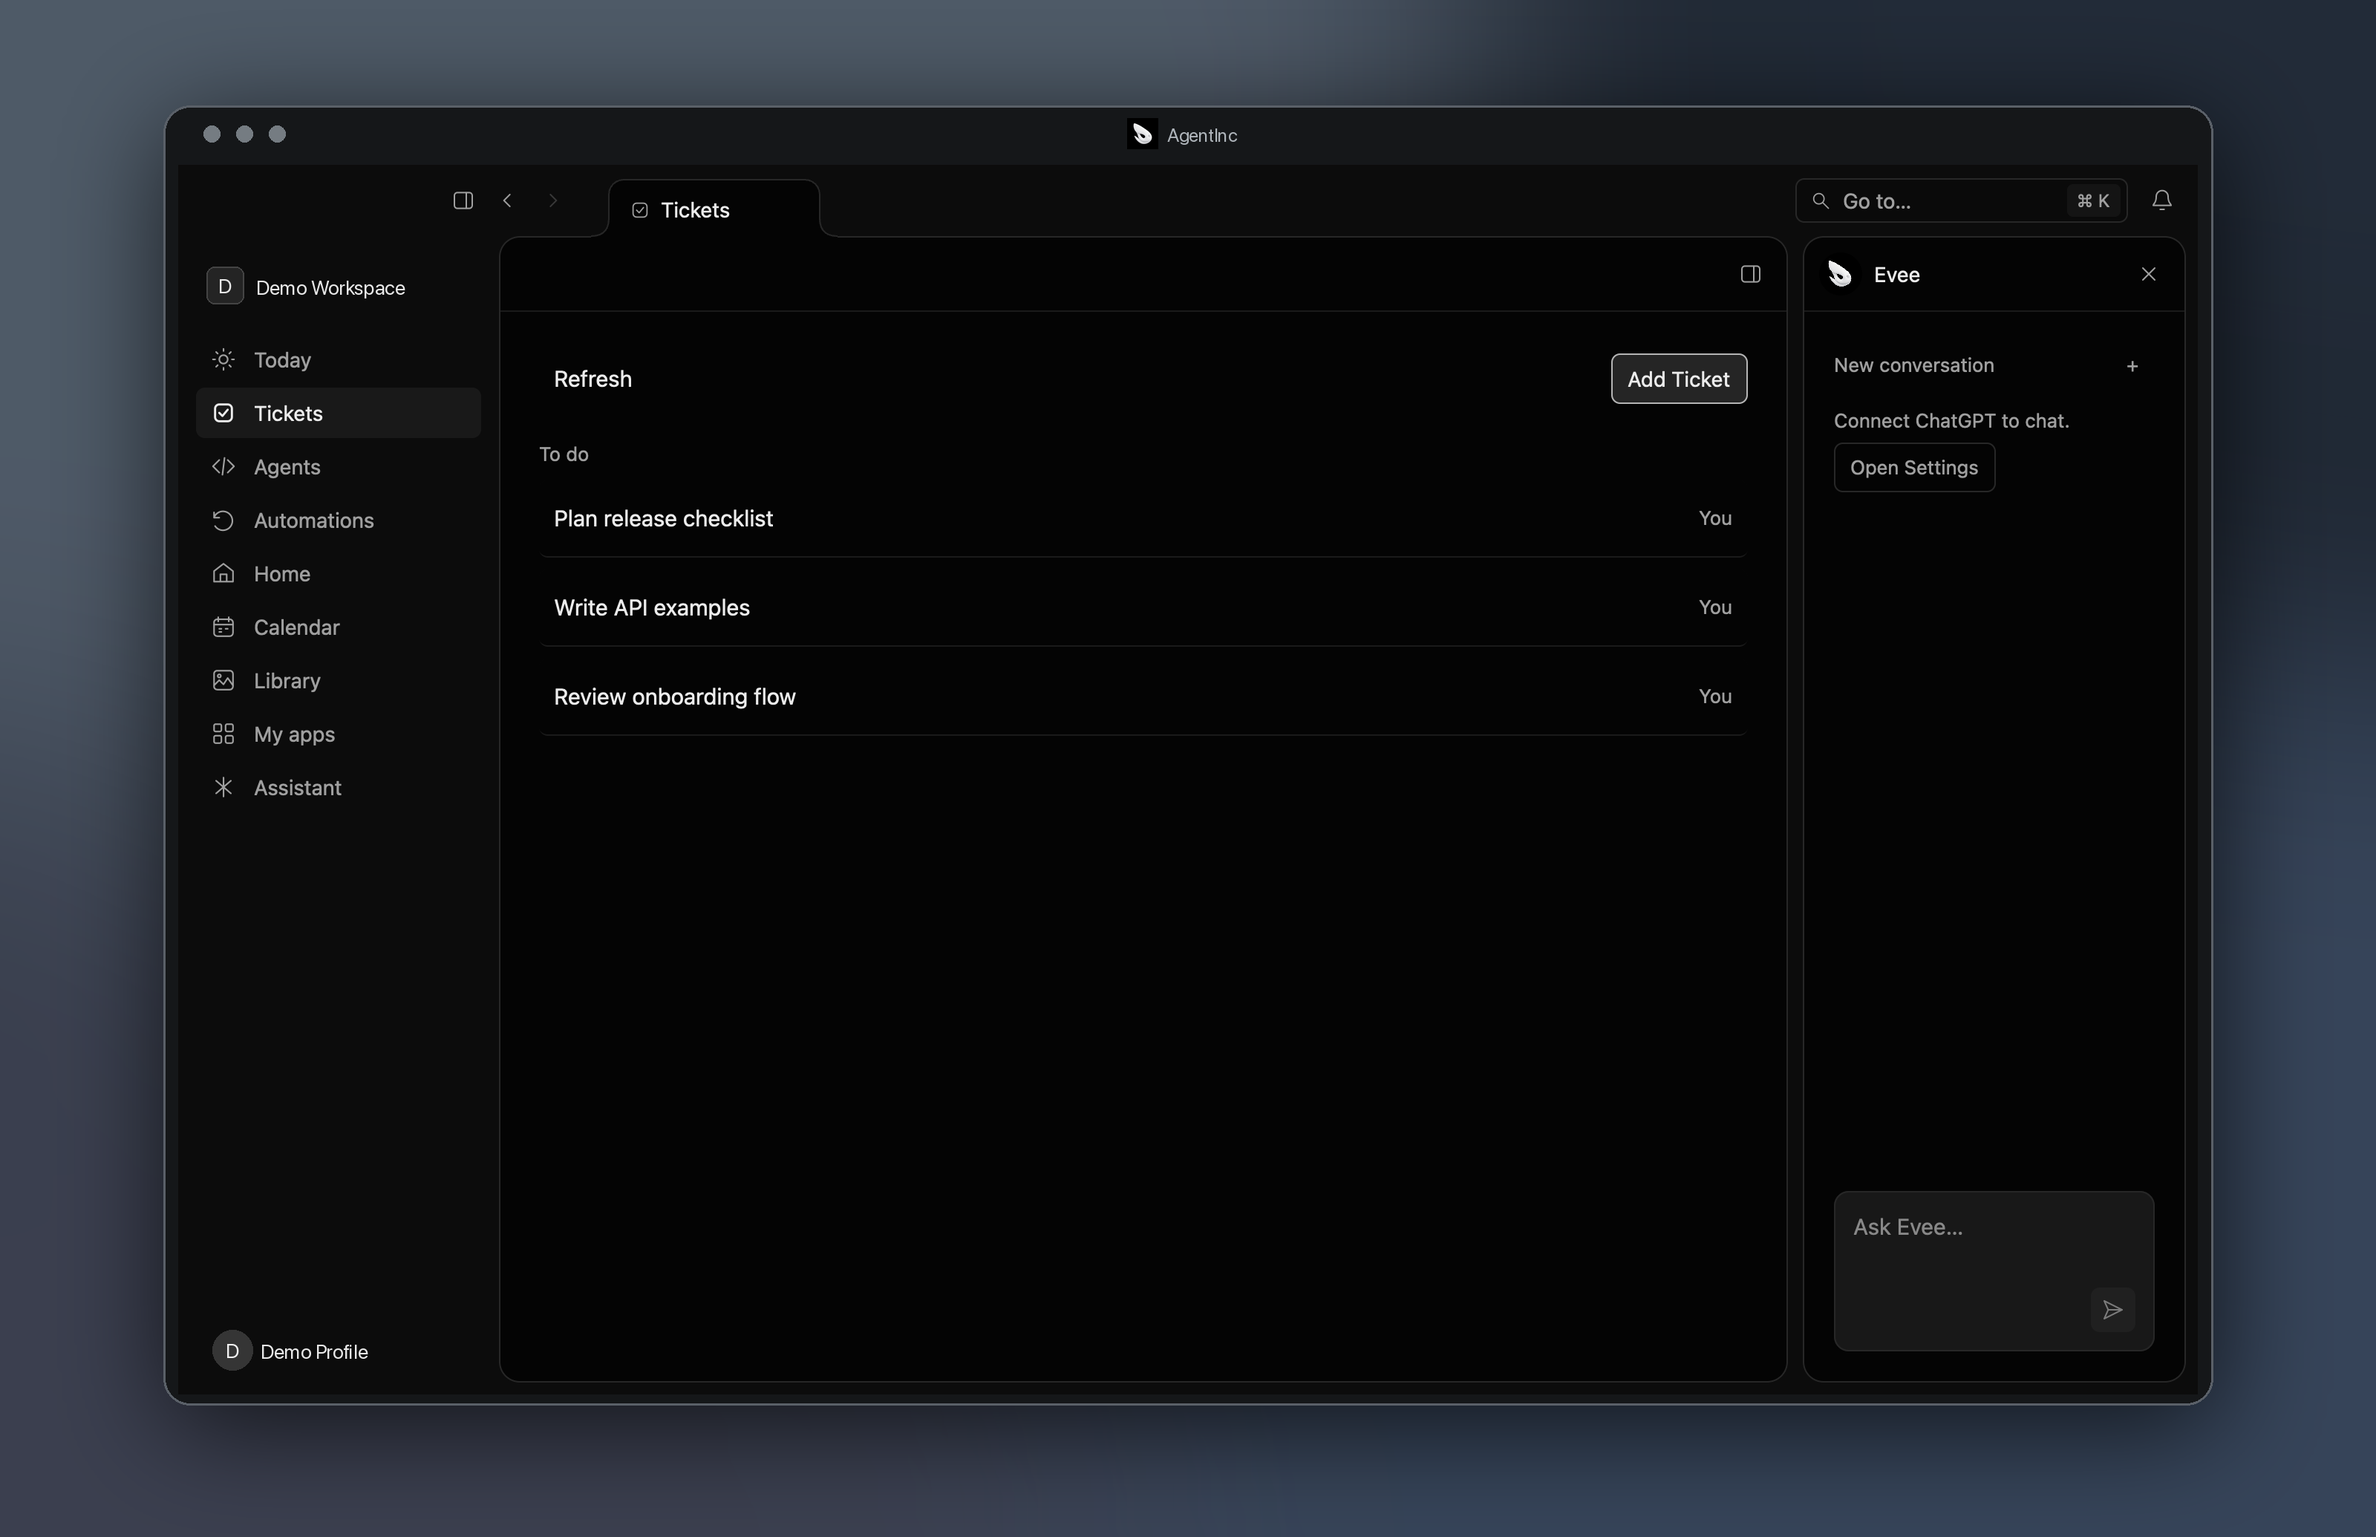
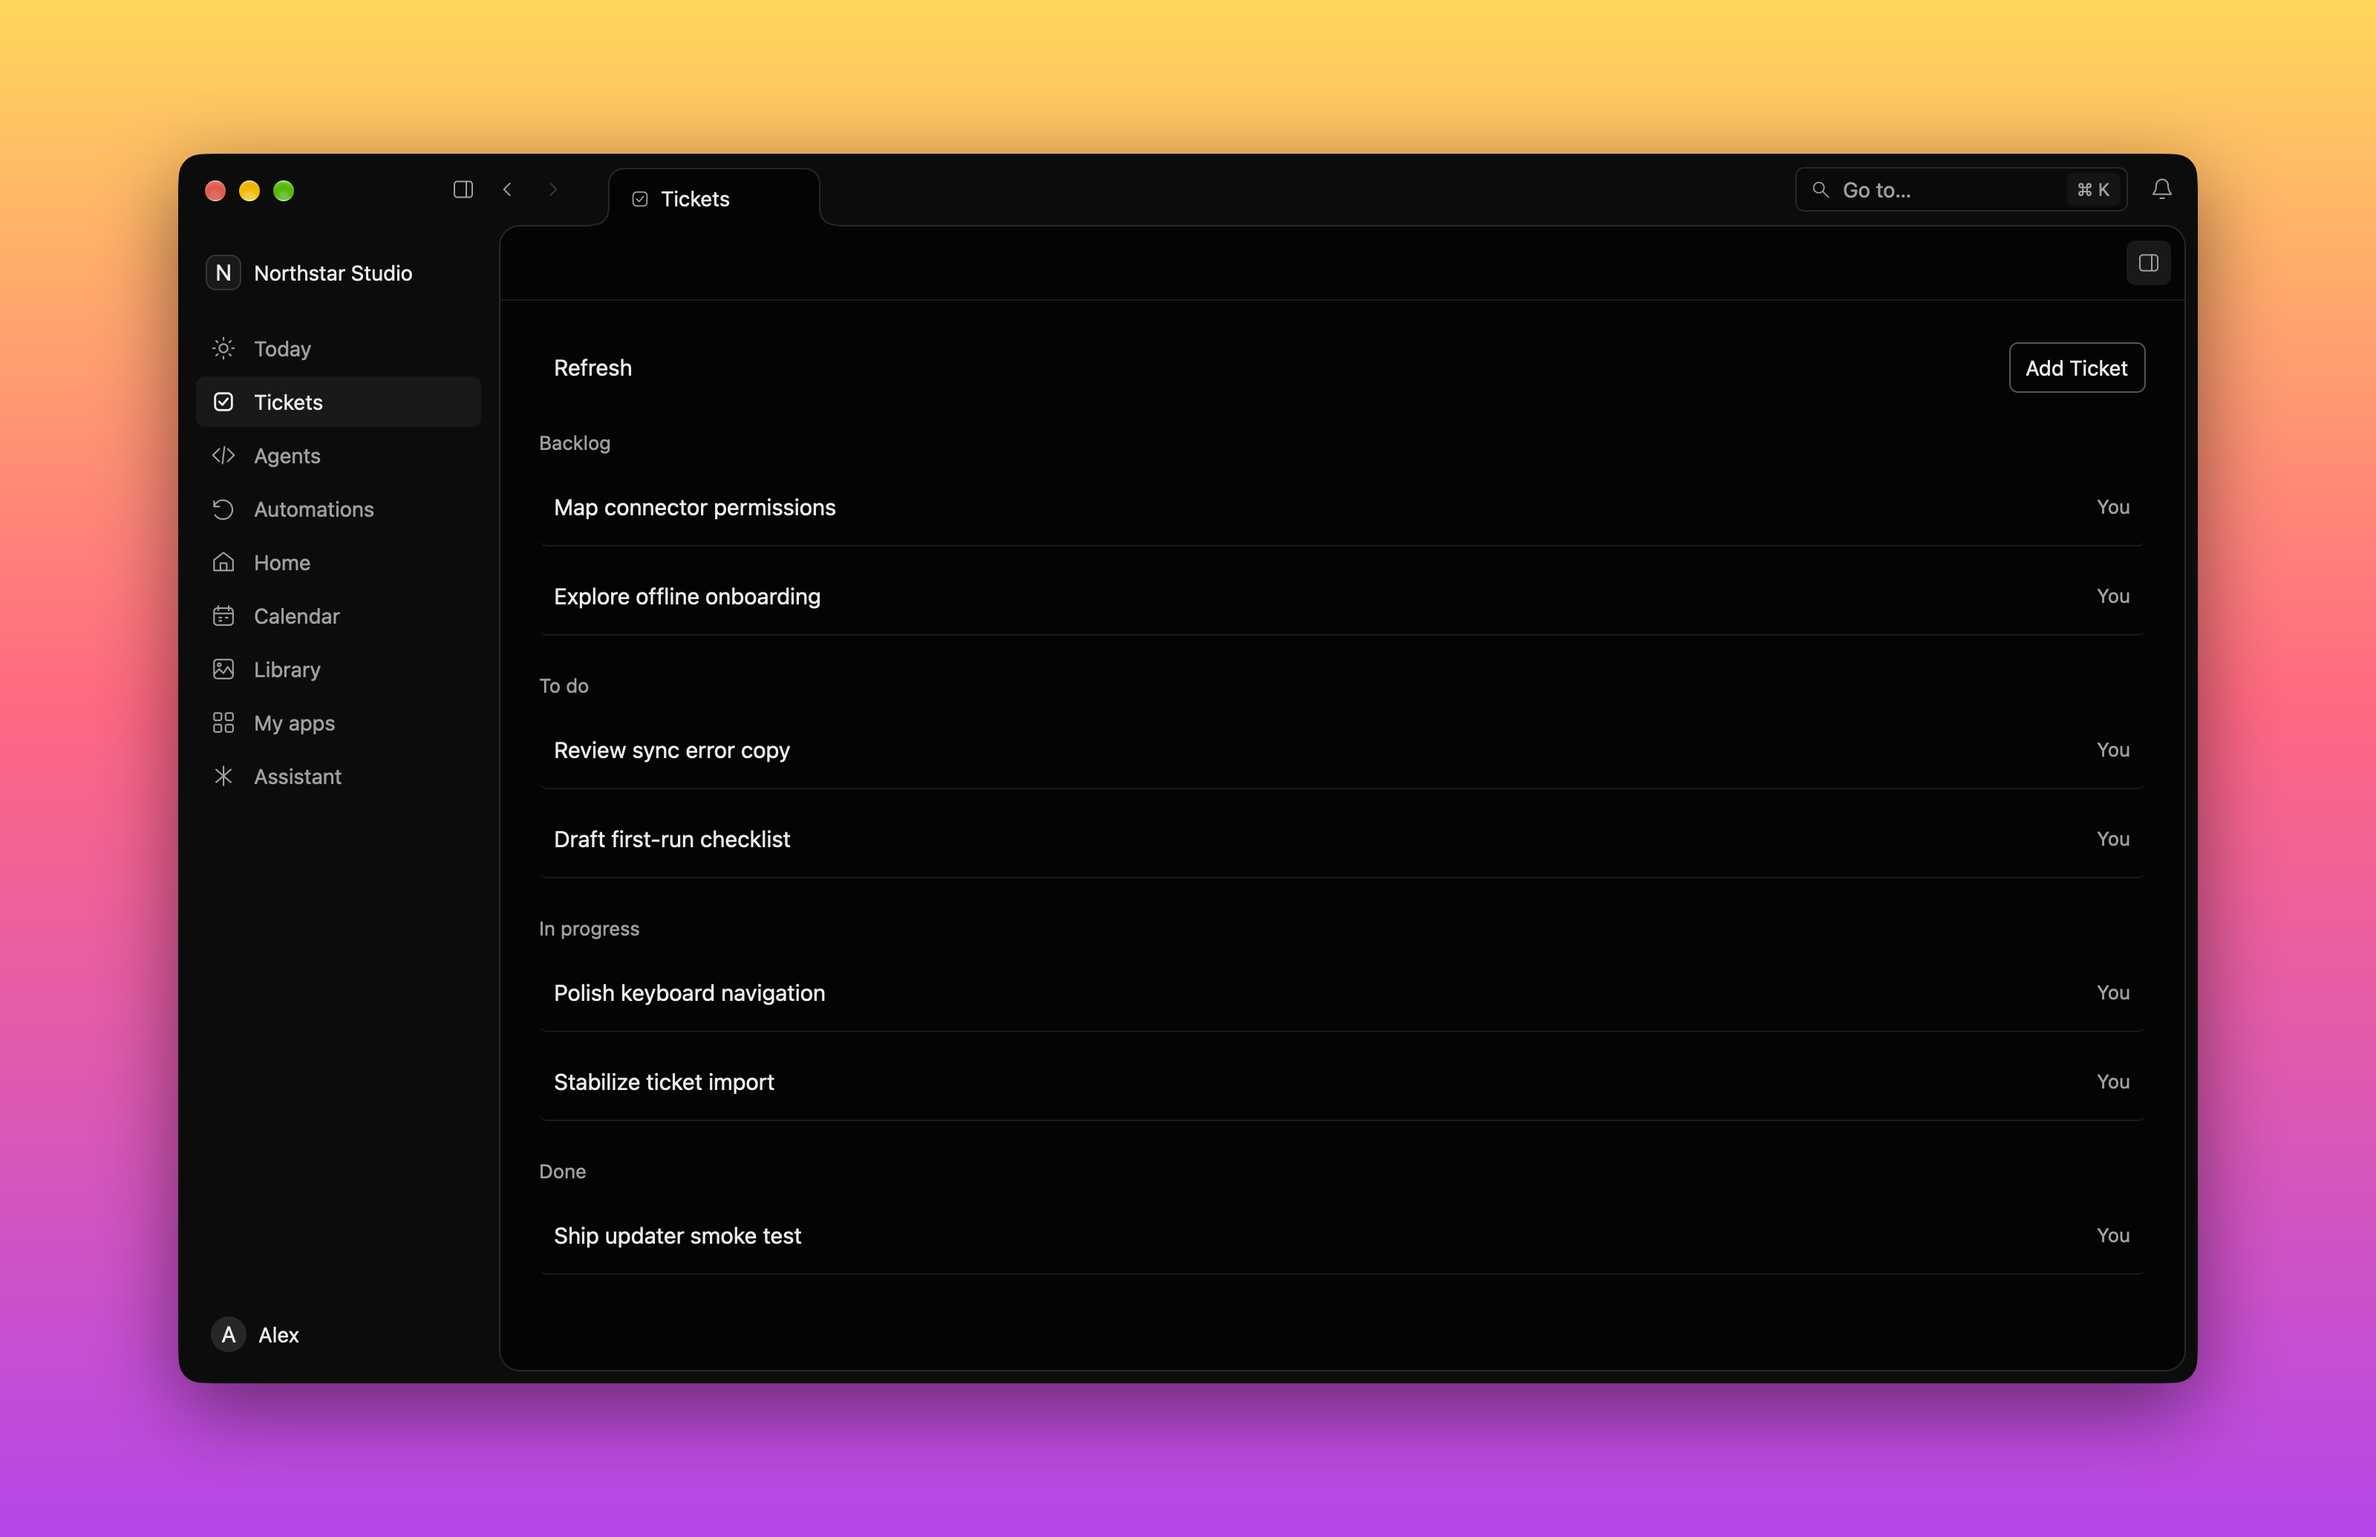
Capture and compose the single README hero

diff --git a/scripts/capture-readme-screenshots.py b/scripts/capture-readme-screenshots.py
@@ -1,14 +1,15 @@
 #!/usr/bin/env python3
-"""Seed an isolated AgentInc stack and capture one real macOS window.
+"""Seed an isolated AgentInc stack and capture one real app frame.
 
 Run after `cargo xtask dev` and `crates/ainc-mac/scripts/bundle.sh automation`.
-The capture includes native controls, corners and WindowServer shadow. No
-desktop input is synthesized and the app is closed immediately afterward.
+GPUI Pilot reads the running app's retina Metal frame. No desktop input is
+synthesized and the app is closed immediately afterward.
 """
 import argparse
 import json
 import os
 from pathlib import Path
+import shutil
 import subprocess
 import tempfile
 import time
@@ -18,6 +19,15 @@ APP = ROOT / "crates/ainc-mac/dist/AgentInc.app/Contents/MacOS/agentinc-os"
 PILOT = ROOT / "target/debug/gpui-pilot"
 DISCOVERY = ROOT / ".local/dev/api-url"
 TITLE = "AgentInc README Capture"
+TICKETS = (
+    ("Explore offline onboarding", "backlog"),
+    ("Map connector permissions", "backlog"),
+    ("Draft first-run checklist", "to_do"),
+    ("Review sync error copy", "to_do"),
+    ("Stabilize ticket import", "in_progress"),
+    ("Polish keyboard navigation", "in_progress"),
+    ("Ship updater smoke test", "done"),
+)
 
 
 def pilot(manifest, *args, typed=None):
@@ -103,6 +113,15 @@ def create_ticket(manifest, title, status):
     wait(manifest, "present", "tickets.create")
 
 
+def wait_for_manifest(app, manifest, log_path):
+    deadline = time.monotonic() + 20
+    while not manifest.is_file():
+        if app.poll() is not None or time.monotonic() >= deadline:
+            raise RuntimeError(log_path.read_text())
+        time.sleep(0.05)  # Wait only for process startup; UI uses Pilot gates.
+    pilot(manifest, "hello")
+
+
 def main():
     parser = argparse.ArgumentParser(description=__doc__)
     parser.add_argument("output", type=Path, help="raw PNG path under ignored .local/")
@@ -127,38 +146,44 @@ def main():
         })
         with (state / "app.log").open("w") as log:
             app = subprocess.Popen(
-                [str(APP), "--gpui-pilot-session", str(state / "pilot")],
+                [str(APP), "--gpui-pilot-session", str(state / "p")],
                 env=env, stdout=log, stderr=log,
             )
             try:
-                manifest = state / "pilot/instance.json"
-                deadline = time.monotonic() + 20
-                while not manifest.is_file():
-                    if app.poll() is not None or time.monotonic() >= deadline:
-                        raise RuntimeError((state / "app.log").read_text())
-                    time.sleep(0.05)  # Wait only for process startup; UI uses Pilot gates.
-                pilot(manifest, "hello")
+                manifest = state / "p/instance.json"
+                wait_for_manifest(app, manifest, state / "app.log")
                 click(manifest, "nav.tickets")
                 wait(manifest, "present", "tickets.create")
-                for title, status in (
-                    ("Explore offline onboarding", "backlog"),
-                    ("Map connector permissions", "backlog"),
-                    ("Draft first-run checklist", "to_do"),
-                    ("Review sync error copy", "to_do"),
-                    ("Stabilize ticket import", "in_progress"),
-                    ("Polish keyboard navigation", "in_progress"),
-                    ("Ship updater smoke test", "done"),
-                ):
+                for title, status in TICKETS:
                     create_ticket(manifest, title, status)
-                click(manifest, "close-evee")
-                wait(manifest, "absent", "close-evee")
-                window = subprocess.check_output(
-                    ["swift", str(ROOT / "scripts/readme-window.swift"),
-                     str(app.pid)], text=True,
+                app.terminate()
+                app.wait(timeout=5)
+                app = subprocess.Popen(
+                    [str(APP), "--gpui-pilot-session", str(state / "q")],
+                    env=env, stdout=log, stderr=log,
                 )
-                window_id = json.loads(window)["id"]
-                subprocess.run(["screencapture", "-x", f"-l{window_id}", str(output)], check=True)
-                print(f"Captured native window {window_id}: {output}")
+                manifest = state / "q/instance.json"
+                wait_for_manifest(app, manifest, state / "app.log")
+                click(manifest, "nav.tickets")
+                deadline = time.monotonic() + 10
+                while time.monotonic() < deadline:
+                    if any(n.get("name") == "Ship updater smoke test"
+                           for n in snapshot(manifest)["nodes"]):
+                        break
+                else:
+                    raise TimeoutError("Seeded Tickets did not load")
+                visible = [n.get("name") for n in snapshot(manifest)["nodes"]
+                           if (n.get("author_id") or "").startswith("ticket.")]
+                if sorted(visible) != sorted(title for title, _ in TICKETS):
+                    raise RuntimeError(f"Capture stack contains unexpected Tickets: {visible}")
+                if any(n.get("author_id") == "close-evee" for n in snapshot(manifest)["nodes"]):
+                    click(manifest, "close-evee")
+                    wait(manifest, "absent", "close-evee")
+                capture = pilot(manifest, "screenshot")
+                if (capture["width"], capture["height"]) != (2720, 1656):
+                    raise RuntimeError(f"Unexpected retina frame: {capture}")
+                shutil.copyfile(capture["path"], output)
+                print(f"Captured real app frame {capture['frame']}: {output}")
             finally:
                 app.terminate()
                 try:

diff --git a/scripts/compose-readme-screenshots.py b/scripts/compose-readme-screenshots.py
@@ -1,19 +1,22 @@
 #!/usr/bin/env python3
-"""Place a native AgentInc window capture on a vivid gradient.
+"""Place a real GPUI Pilot app render on a vivid gradient.
 
 The layout follows the open-source Tokokino screenshot composer's background
-and padding approach (https://github.com/ShivaBhattacharjee/Tokokino).
-Only the transparent space around the actual WindowServer capture is filled.
+and padding approach (https://github.com/ShivaBhattacharjee/Tokokino). The
+macOS controls and corner mask come from a repository native-window capture;
+no extra title bar is added above the actual app pixels.
 Requires Pillow: python3 scripts/compose-readme-screenshots.py RAW.png OUTPUT.png
 """
 import argparse
 from pathlib import Path
 
-from PIL import Image, ImageDraw
+from PIL import Image, ImageDraw, ImageFilter
 
 CANVAS = (3200, 2070)
 MAX_BYTES = 1_000_000
 STOPS = ((0.0, (255, 214, 92)), (0.46, (255, 104, 130)), (1.0, (181, 71, 233)))
+NATIVE_REFERENCE = (Path(__file__).resolve().parents[1] /
+                    "crates/ainc-mac/docs/verification/native-capture-library.png")
 
 
 def background():
@@ -36,16 +39,39 @@ def main():
     parser.add_argument("output", type=Path)
     args = parser.parse_args()
     app = Image.open(args.raw).convert("RGBA")
-    if app.width < 2600 or app.height < 1600:
-        raise ValueError(f"Expected a retina native window capture, got {app.size}")
-    if app.getchannel("A").getextrema()[0] == 255:
-        raise ValueError("Capture has no transparent native corners or shadow")
+    if app.size != (2720, 1656):
+        raise ValueError(f"Expected a 2720×1656 retina Pilot render, got {app.size}")
     if app.width > CANVAS[0] - 200 or app.height > CANVAS[1] - 200:
         raise ValueError(f"Capture lacks padding on {CANVAS}: {app.size}")
-    image = background()
-    image.paste(app, ((CANVAS[0] - app.width) // 2, (CANVAS[1] - app.height) // 2), app)
+    native = Image.open(NATIVE_REFERENCE).convert("RGBA")
+    if native.width != app.width:
+        raise ValueError("Native reference width differs from Pilot render")
+    # The app and reference use the same #0c0c0c top bar. Copy only the actual
+    # macOS traffic-light region at the configured 18 pt window offset.
+    controls = (26, 30, 163, 71)
+    if app.getpixel((20, 20)) != native.getpixel((20, 20)):
+        raise ValueError("Native control background no longer matches app header")
+    app.paste(native.crop(controls), controls[:2])
+    # Reuse the alpha of a real native window at the same retina width, with
+    # its exact top/bottom corner contours. The middle rows remain opaque.
+    mask = Image.new("L", app.size, 255)
+    alpha = native.getchannel("A")
+    edge = 80
+    mask.paste(alpha.crop((0, 0, app.width, edge)), (0, 0))
+    mask.paste(alpha.crop((0, native.height - edge, app.width, native.height)),
+               (0, app.height - edge))
+    app.putalpha(mask)
+    image = background().convert("RGBA")
+    placement = ((CANVAS[0] - app.width) // 2, (CANVAS[1] - app.height) // 2)
+    shadow = Image.new("RGBA", CANVAS)
+    shadow_mask = Image.new("L", CANVAS)
+    shadow_mask.paste(mask, (placement[0], placement[1] + 34))
+    shadow.putalpha(shadow_mask.filter(ImageFilter.GaussianBlur(52)).point(
+        lambda value: round(value * 0.48)))
+    image.alpha_composite(shadow)
+    image.alpha_composite(app, placement)
     args.output.parent.mkdir(parents=True, exist_ok=True)
-    image.save(args.output, format="PNG", optimize=True, compress_level=9)
+    image.convert("RGB").save(args.output, format="PNG", optimize=True, compress_level=9)
     size = args.output.stat().st_size
     if size >= MAX_BYTES:
         args.output.unlink()

diff --git a/docs/assets/readme/README.md b/docs/assets/readme/README.md
@@ -1,13 +1,13 @@
 # README hero capture
 
-The single hero is a real retina capture of the running signed AgentInc window. Its own title bar, inline controls, rounded corners, colors and macOS shadow are untouched. The only added pixels are the bright gradient outside the captured window. The composition follows the background and generous-padding approach of the open-source [Tokokino screenshot composer](https://github.com/ShivaBhattacharjee/Tokokino), implemented here as a deterministic Pillow script.
+The single hero uses a retina GPUI Pilot render of the running signed AgentInc app. The app pixels, including its own header and layout, stay untouched. Screen Recording was unavailable in the capture host, so the macOS traffic lights and corner alpha are taken from the repository's [native window capture](../../../crates/ainc-mac/docs/verification/native-capture-library.png), at the same retina width and configured control position. The shadow is reconstructed from that exact corner mask. There is no added title bar. The bright gradient and generous padding follow the approach of the open-source [Tokokino screenshot composer](https://github.com/ShivaBhattacharjee/Tokokino), implemented here as a deterministic Pillow script.
 
 On an Apple Silicon Mac, from a fresh disposable worktree:
 
 1. Start the isolated stack with `cargo xtask dev`; wait for `cargo xtask doctor` to report its API URL.
 2. Build the signed capture bundle with `crates/ainc-mac/scripts/bundle.sh automation`.
-3. Run `python3 scripts/capture-readme-screenshots.py .local/readme-native.png`. It creates synthetic Tickets through GPUI Pilot in the isolated database and uses `screencapture -l` on the owned native window. The app closes after capture; it never signs in or calls a model.
-4. Run `python3 scripts/compose-readme-screenshots.py .local/readme-native.png docs/assets/readme/hero.png`. Requires Pillow. The script checks retina dimensions, native transparency and the 1 MB limit.
-5. Inspect the PNG for identity leaks, the real controls, native corners and shadow. The raw capture and isolated session stay under ignored `.local/`.
+3. Run `python3 scripts/capture-readme-screenshots.py .local/readme-native.png`. It creates synthetic Tickets through GPUI Pilot in the isolated database, restarts the app to clear UI hover state, and captures the actual app frame. The app closes after capture; it never signs in or calls a model.
+4. Run `python3 scripts/compose-readme-screenshots.py .local/readme-native.png docs/assets/readme/hero.png`. Requires Pillow. The script checks the retina frame dimensions, native-control background match and 1 MB limit.
+5. Inspect the PNG for identity leaks, matching colors, native control placement, corners and shadow. The raw capture and isolated session stay under ignored `.local/`.
 
 The two `AGENTINC_CAPTURE_*` identity overrides work only in the opt-in automation build. A normal bundle ignores them. After capture, run `crates/ainc-mac/scripts/bundle.sh` to restore the ordinary bundle before default-build tests.
